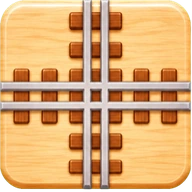
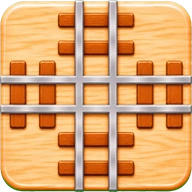
wanwan: new cross tile art for natural/retro/neon
Claude-Session: https://claude.ai/code/session_01C8PtLDws9mEun2KRsPMwCE

diff --git a/sw.js b/sw.js
@@ -1,5 +1,5 @@
 // オフライン対応（ページは最新を優先、画像などはキャッシュを優先）
-const V='gc-v140';
+const V='gc-v141';
 const CORE=['./','index.html','coins.js','backup.js','manifest.webmanifest','icons/icon-192.png',
  ...['reversi','shogi','wanko','gomoku','memory','escape','rings','peg','slide','hanoi'].map(g=>g+'/')];
 self.addEventListener('install',e=>{e.waitUntil(caches.open(V).then(c=>c.addAll(CORE)).then(()=>self.skipWaiting()))});
